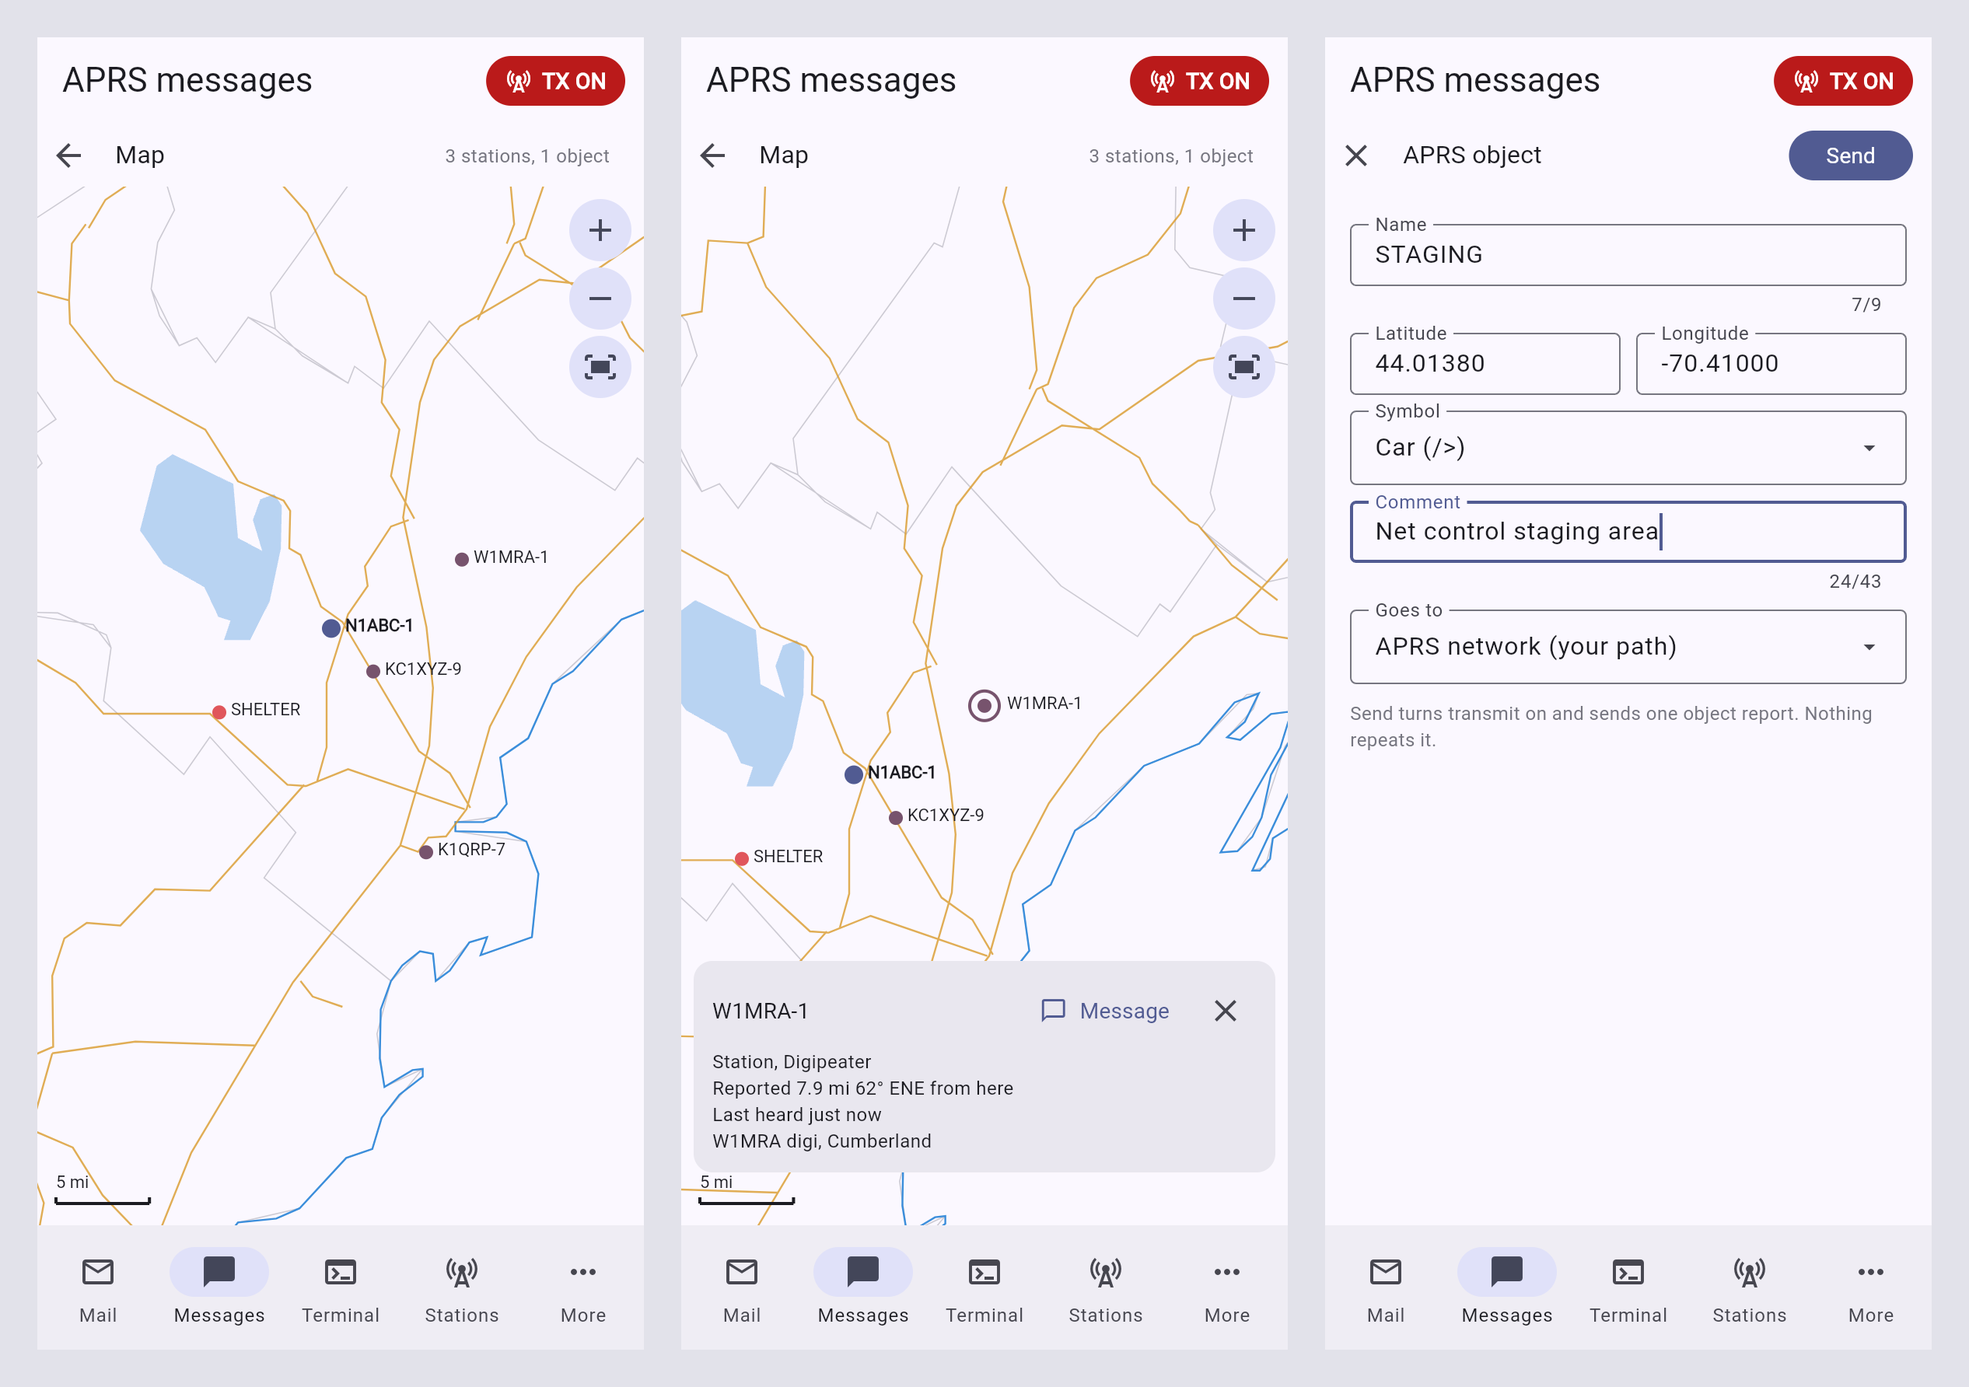
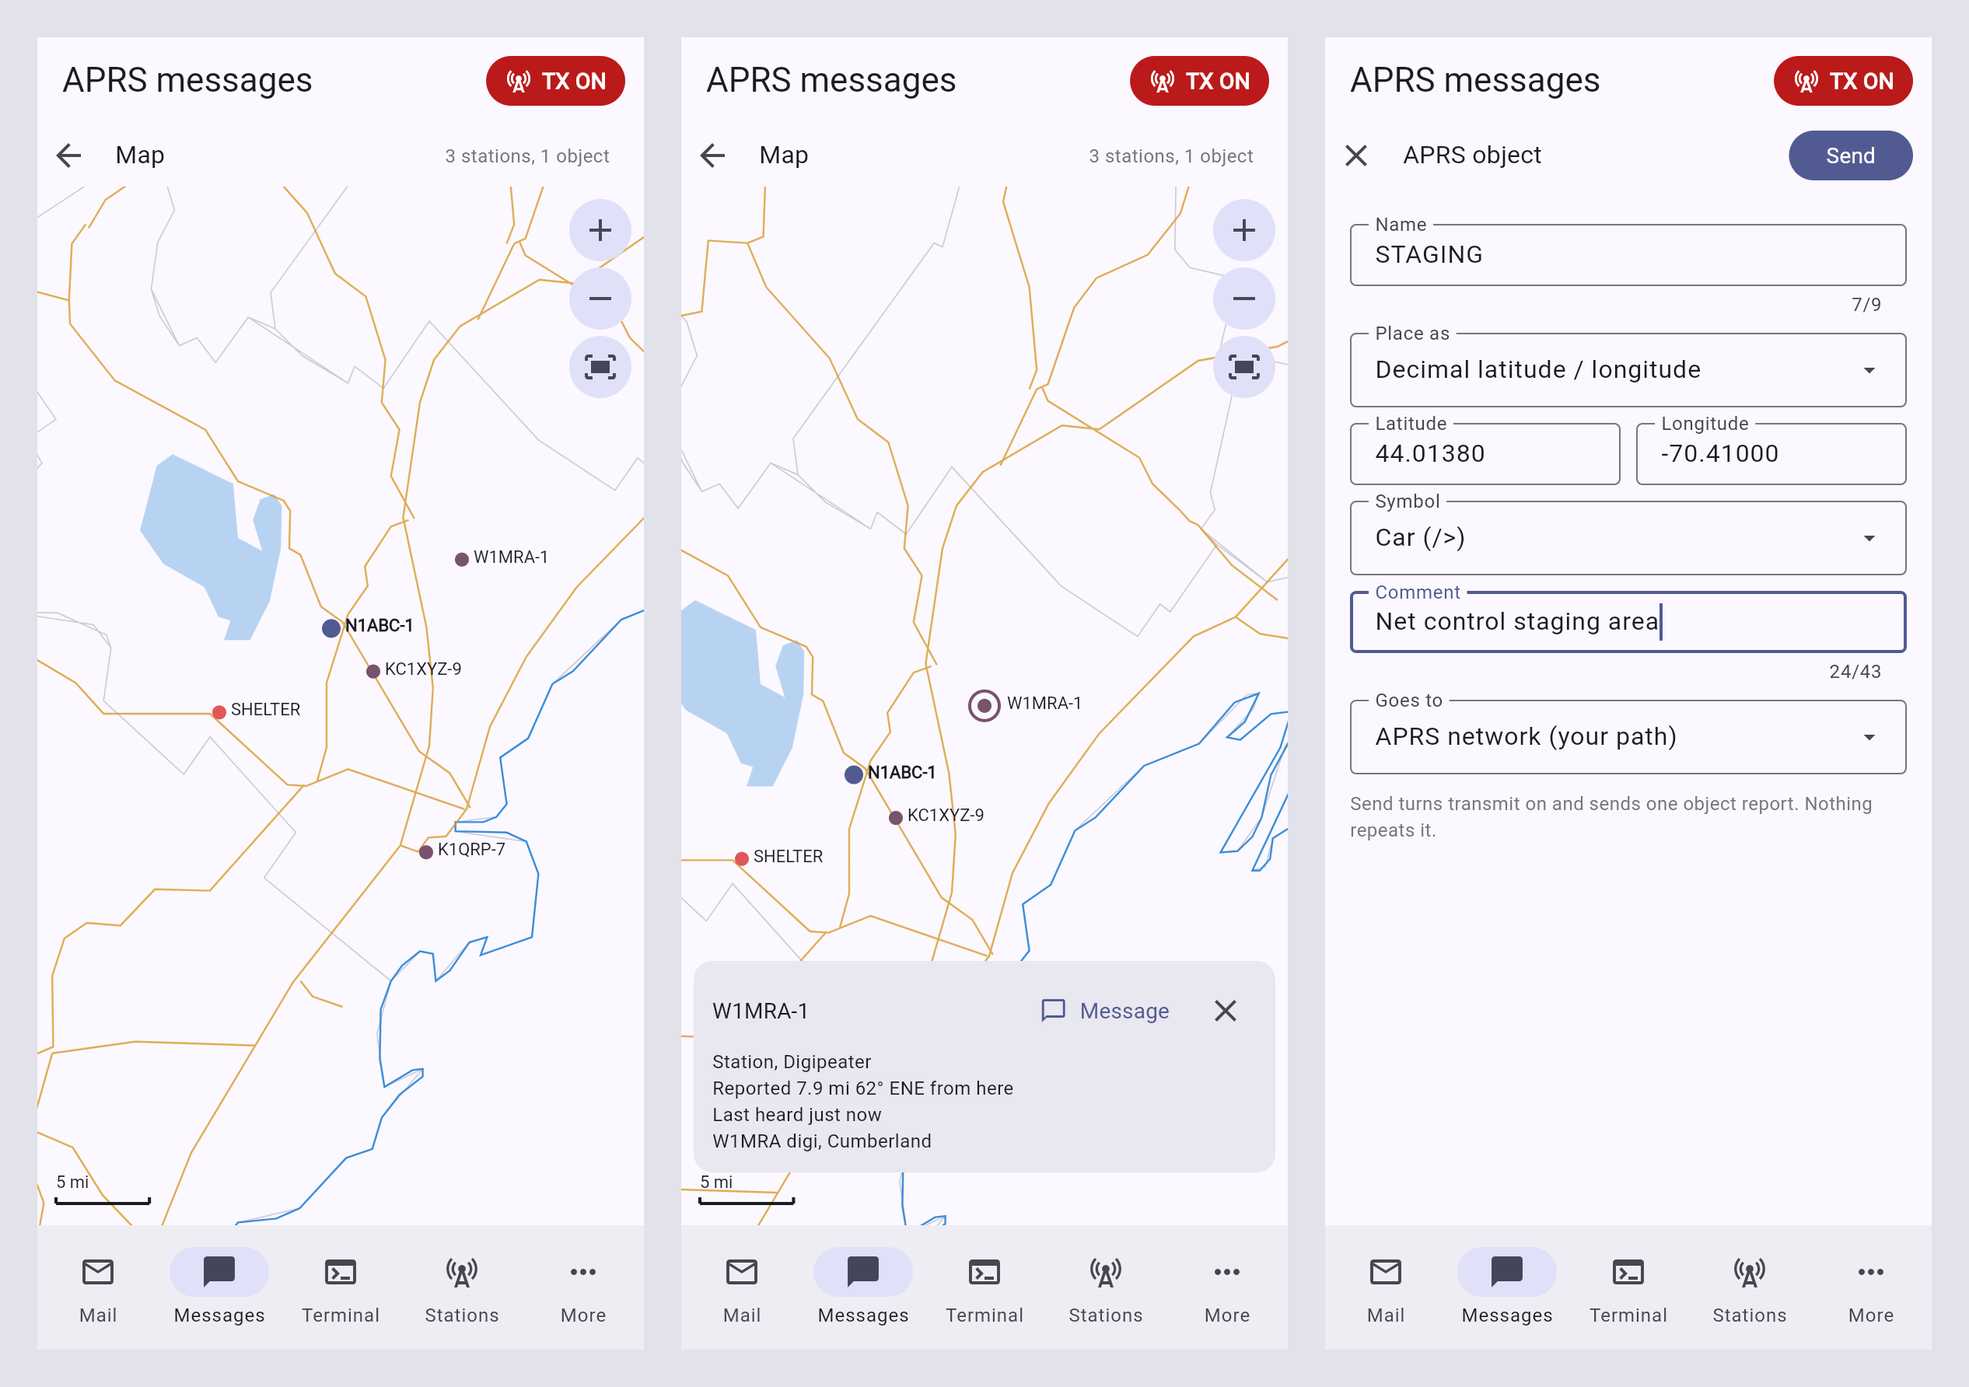
Web/phone: an object's place as grid square, MGRS or UTM, converted by the station

Changed region(s): [[0.6864, 0.2158, 0.9672, 0.6166]]

diff --git a/kissterm/client/ui/aprs_object.py b/kissterm/client/ui/aprs_object.py
@@ -22,6 +22,11 @@ import flet as ft
 from . import sheets
 
 
+#: An example of each way to give a place, as the terminal's dialog shows.
+PLACE_HINTS = {"grid": "FN31pr", "mgrs": "18T WL 85664 11348", "utm": "18 N 691875 4576931"}
+PLACE_LABELS = {"grid": "Grid square", "mgrs": "MGRS", "utm": "UTM"}
+
+
 class ObjectForm:
     """One object being written, as a page of `MessagesView`."""
 
@@ -39,6 +44,15 @@ class ObjectForm:
         self.longitude = ft.TextField(label="Longitude",
                                       value=f"{start.get('longitude', 0):.5f}", dense=True,
                                       expand=True, keyboard_type=ft.KeyboardType.NUMBER)
+        #: How the place is given (the terminal's coordinate format): the
+        #: station converts a grid square, MGRS or UTM (`Aprs.place_from`).
+        self.place_format = ft.Dropdown(
+            label="Place as", value="decimal", dense=True, expand=True,
+            on_select=self._format_picked,
+            options=[ft.DropdownOption(key=key, text=label)
+                     for key, label in start.get("formats") or [["decimal", "Decimal"]]])
+        self.reference = ft.TextField(label="Grid square", dense=True, visible=False,
+                                      hint_text=PLACE_HINTS["grid"])
         self.symbol = ft.Dropdown(
             label="Symbol", value=start.get("symbol") or None, dense=True, expand=True,
             enable_filter=True, editable=True, menu_height=320,
@@ -67,7 +81,9 @@ class ObjectForm:
                                  # Room for the first field's floating label.
                                  ft.Container(height=6),
                                  self.name,
+                                 ft.Row(controls=[self.place_format]),
                                  ft.Row(controls=[self.latitude, self.longitude]),
+                                 self.reference,
                                  ft.Row(controls=[self.symbol]),
                                  self.comment,
                                  ft.Row(controls=[self.scope]),
@@ -75,6 +91,15 @@ class ObjectForm:
                                          "Nothing repeats it.", size=12,
                                          color=ft.Colors.OUTLINE),
                                  self.problems]))])
+
+    async def _format_picked(self, _e) -> None:
+        mode = self.place_format.value or "decimal"
+        self.latitude.visible = self.longitude.visible = mode == "decimal"
+        self.reference.visible = mode != "decimal"
+        if mode != "decimal":
+            self.reference.label = PLACE_LABELS[mode]
+            self.reference.hint_text = PLACE_HINTS[mode]
+        self.app.page.update()
 
     def values(self) -> dict:
         return {"name": (self.name.value or "").strip().upper(), "alive": True,
@@ -84,13 +109,19 @@ class ObjectForm:
 
     async def send(self, _e) -> None:
         values = self.values()
-        try:
-            values["latitude"] = float(str(values["latitude"]).strip())
-            values["longitude"] = float(str(values["longitude"]).strip())
-        except ValueError:
-            self.problems.value = "Latitude and longitude must be decimal numbers."
-            self.app.page.update()
-            return
+        mode = self.place_format.value or "decimal"
+        if mode == "decimal":
+            try:
+                values["latitude"] = float(str(values["latitude"]).strip())
+                values["longitude"] = float(str(values["longitude"]).strip())
+            except ValueError:
+                self.problems.value = "Latitude and longitude must be decimal numbers."
+                self.app.page.update()
+                return
+        else:
+            # The station converts it, and says what to enter if it cannot.
+            values.update(format=mode, reference=self.reference.value or "")
+            del values["latitude"], values["longitude"]
         name = values["name"] or "this object"
 
         async def go() -> None:

diff --git a/kissterm/ui/dialogs.py b/kissterm/ui/dialogs.py
@@ -36,7 +36,7 @@ from ..aprs_contacts import (
 from ..ax25 import parse_path
 #: Defined in the core (`kissterm/core/connect.py`), re-exported for the
 #: screens and callers that build one.
-from ..core.aprs import AprsObjectRequest  # noqa: F401 - defined by the core
+from ..core.aprs import PLACE_EXAMPLES, AprsObjectRequest, place_from  # noqa: F401 - defined by the core
 from ..core.connect import ConnectRequest  # noqa: F401
 from ..core.questions import (  # noqa: F401 - the answer types, defined by the core
     SETUP_GO,
@@ -45,7 +45,6 @@ from ..core.questions import (  # noqa: F401 - the answer types, defined by the 
     GatewayChoice,
     InternetLogin,
 )
-from ..locator import LocatorError, from_grid, from_mgrs, from_utm
 from .button_row import ButtonRow
 from .symbol_picker import SymbolPicker
 from .wraplog import WrapLog
@@ -415,17 +414,11 @@ class AprsObjectScreen(ModalScreen[AprsObjectRequest | None]):
                 latitude = float(self.query_one("#aprs-object-latitude", Input).value.strip())
                 longitude = float(self.query_one("#aprs-object-longitude", Input).value.strip())
             else:
-                reference = self.query_one("#aprs-object-reference", Input).value
-                converter = {"grid": from_grid, "mgrs": from_mgrs, "utm": from_utm}[mode]
-                latitude, longitude = converter(reference)
-        except (KeyError, LocatorError, ValueError):
-            examples = {
-                "decimal": "Latitude and longitude must be decimal numbers.",
-                "grid": "Enter a 4-, 6-, or 8-character grid square, e.g. FN31pr.",
-                "mgrs": "Enter WGS-84 MGRS, e.g. 18T WL 85664 11348.",
-                "utm": "Enter WGS-84 UTM as zone hemisphere easting northing, e.g. 18 N 691875 4576931.",
-            }
-            self.notify(examples.get(mode, "Enter a valid coordinate."), severity="warning")
+                latitude, longitude = place_from(
+                    mode, self.query_one("#aprs-object-reference", Input).value)
+        except ValueError as exc:
+            self.notify(str(exc) if mode != "decimal" else PLACE_EXAMPLES["decimal"],
+                        severity="warning")
             return
         name = self.query_one("#aprs-object-name", Input).value
         symbol = self.query_one("#aprs-object-symbol-picker", SymbolPicker).value

diff --git a/kissterm/core/aprs.py b/kissterm/core/aprs.py
@@ -56,7 +56,7 @@ from ..config import AprsConfig, BeaconConfig
 from ..geo import placemarks as marks
 from ..geo.project import describe
 from ..gps import GpsReader
-from ..locator import find_grid_in_text
+from ..locator import LocatorError, find_grid_in_text, from_grid, from_mgrs, from_utm
 from ..monitor import aprs_message_matches, sanitize
 from .events import (
     Alert,
@@ -98,6 +98,31 @@ class AprsObjectRequest:
     symbol: str
     comment: str
     scope: str = "network"
+
+
+#: How an object's place can be given. APRS has only latitude and longitude,
+#: so the others are converted (WGS-84 only) before anything is sent.
+PLACE_FORMATS = (("decimal", "Decimal latitude / longitude"), ("grid", "Maidenhead grid square"),
+                 ("mgrs", "MGRS"), ("utm", "WGS-84 UTM"))
+PLACE_EXAMPLES = {
+    "decimal": "Latitude and longitude must be decimal numbers.",
+    "grid": "Enter a 4-, 6-, or 8-character grid square, e.g. FN31pr.",
+    "mgrs": "Enter WGS-84 MGRS, e.g. 18T WL 85664 11348.",
+    "utm": "Enter WGS-84 UTM as zone hemisphere easting northing, e.g. 18 N 691875 4576931.",
+}
+
+
+def place_from(mode: str, reference: str) -> tuple[float, float]:
+    """`(latitude, longitude)` for a grid square, MGRS or UTM `reference`;
+    ValueError, saying what to enter, when it is not one. The one converter
+    both front ends use (the terminal's Send object and the client's)."""
+    converter = {"grid": from_grid, "mgrs": from_mgrs, "utm": from_utm}.get(mode)
+    if converter is None:
+        raise ValueError(PLACE_EXAMPLES["decimal"])
+    try:
+        return converter(reference)
+    except (LocatorError, ValueError) as exc:
+        raise ValueError(PLACE_EXAMPLES[mode]) from exc
 
 
 def object_problems(request: AprsObjectRequest) -> list[str]:
@@ -694,6 +719,7 @@ class Aprs:
             "symbol": (mine.symbol if mine else "") or self.config.aprs.symbol,
             "comment": mine.comment if mine else "",
             "scopes": [list(scope) for scope in OBJECT_SCOPES],
+            "formats": [list(f) for f in PLACE_FORMATS],
             "symbols": [[symbol.key, symbol.description] for symbol in aprs_symbols.SYMBOLS
                         if symbol.description],
         }

diff --git a/kissterm/serve/server.py b/kissterm/serve/server.py
@@ -417,13 +417,22 @@ class RemoteServer:
             None if latitude is None else float(latitude),
             None if longitude is None else float(longitude), str(name or ""))
 
-    async def cmd_aprs_object(self, name: str, alive: bool, latitude: float, longitude: float,
-                              symbol: str, comment: str = "", scope: str = "network") -> dict:
+    async def cmd_aprs_object(self, name: str, alive: bool, latitude: float | None = None,
+                              longitude: float | None = None, symbol: str = "/.",
+                              comment: str = "", scope: str = "network",
+                              format: str = "decimal", reference: str = "") -> dict:
         """Send one object report, as the terminal's Send object does: checked
         first (nothing sent with a problem), then the gate armed by this
-        operator-named request (`Aprs.send_object_now`)."""
-        from ..core.aprs import AprsObjectRequest, object_problems
+        operator-named request (`Aprs.send_object_now`). The place is the
+        decimal `latitude`/`longitude`, or for `format` grid, mgrs or utm the
+        `reference`, converted here (`place_from`)."""
+        from ..core.aprs import AprsObjectRequest, object_problems, place_from
 
+        if format != "decimal":
+            try:
+                latitude, longitude = place_from(str(format), str(reference))
+            except ValueError as exc:
+                return {"problems": [str(exc)], "sent": False}
         try:
             request = AprsObjectRequest(str(name), bool(alive), float(latitude),
                                         float(longitude), str(symbol), str(comment or ""),

diff --git a/tests/unit/test_client_ui.py b/tests/unit/test_client_ui.py
@@ -1276,3 +1276,23 @@ async def test_a_saved_message_is_saved_and_forgotten_through_the_station():
     assert ("aprs_template_save", {"name": "Hi", "text": "QRV", "gateway": "winlink"}) in app.commands
     await shown._forgetter(TEMPLATES["saved"][0])(None)
     assert app.commands[-2][0] == "aprs_template_forget"
+
+
+@pytest.mark.asyncio
+async def test_an_object_placed_by_grid_square_sends_the_reference_for_the_station_to_convert():
+    from kissterm.client.ui.aprs_object import ObjectForm
+    from kissterm.client.ui.messages import MessagesView
+
+    sent = []
+    app = MailApp({"aprs_object": lambda **a: sent.append(a) or {"problems": [], "sent": True}})
+    messages = MessagesView(app)
+    form = ObjectForm(messages, dict(OBJECT_START, formats=[["decimal", "Decimal"], ["grid", "Grid"]]))
+    form.name.value = "drill"
+    form.place_format.value = "grid"
+    await form._format_picked(None)
+    assert form.reference.visible and not form.latitude.visible
+    form.reference.value = "FN43"
+    await form.send(None)
+    await _button(app.page.dialogs[-1], "Send").on_click(None)
+    assert sent[0]["format"] == "grid" and sent[0]["reference"] == "FN43"
+    assert "latitude" not in sent[0] and sent[0]["name"] == "DRILL"

diff --git a/tests/unit/test_core_aprs.py b/tests/unit/test_core_aprs.py
@@ -158,3 +158,18 @@ async def test_saved_messages_are_scoped_validated_replaced_and_forgotten():
     assert not core.aprs.template_forget("List", "L", "winlink")
     assert len(core.config.aprs_templates) == 1
     station.close()
+
+
+def test_an_objects_place_can_be_a_grid_square_mgrs_or_utm():
+    from kissterm.core.aprs import place_from
+    from kissterm.locator import from_utm
+
+    lat, lon = place_from("grid", "FN31pr")
+    assert 41 < lat < 42 and -73 < lon < -72
+    assert place_from("mgrs", "18T WL 85664 11348") == pytest.approx((40.7486, -73.9853), abs=0.001)
+    assert place_from("utm", "18 N 691875 4576931") == from_utm("18 N 691875 4576931")
+    for mode in ("grid", "mgrs", "utm"):
+        with pytest.raises(ValueError, match="Enter"):
+            place_from(mode, "nonsense")
+    with pytest.raises(ValueError):
+        place_from("decimal", "43 -70")

diff --git a/kissterm/__init__.py b/kissterm/__init__.py
@@ -14,7 +14,7 @@ import __version__` fails with a confusing "unknown location" ImportError --
 this has already happened once.
 """
 
-__version__ = "0.1.472"
+__version__ = "0.1.473"
 
 __all__ = ["__version__"]
 

diff --git a/docs/PROTOCOL.md b/docs/PROTOCOL.md
@@ -152,7 +152,7 @@ lighter path around a rule the terminal follows.
 | `aprs_position` | `Aprs.send_position_now` | yes |
 | `aprs_conversations` / `aprs_thread` `{callsign}` | `Aprs.conversations` | no |
 | `aprs_object_start` `{latitude, longitude, name}` | `Aprs.object_start`: a new object's form, at here or the place given (a long press on the map), with `symbol`, `comment`, `scopes` and `symbols` (key, description); `name` one of this station's objects fills in its symbol and comment (Move, Kill) | no |
-| `aprs_object` `{name, alive, latitude, longitude, symbol, comment, scope}` | `Aprs.send_object_now`, after `object_problems`: returns `problems` (nothing sent) and `sent`; the object is on this station's map at once, `mine` true. `alive` false kills it | yes |
+| `aprs_object` `{name, alive, latitude, longitude, symbol, comment, scope}`, or `format` (`grid`, `mgrs`, `utm`) and `reference` in place of the coordinates (`aprs_object_start` lists `formats`) | `Aprs.send_object_now`, after `object_problems`: returns `problems` (nothing sent) and `sent`; the object is on this station's map at once, `mine` true. `alive` false kills it | yes |
 | `aprs_templates` `{callsign}` / `aprs_template_save` `{name, text, gateway, old}` / `aprs_template_forget` `{name, text, gateway}` | `Aprs.templates` (the shipped gateway service for that callsign, or the contact's own, with `commands` (`name`, `summary`, `text`, `confidence`), `note`, `source`, `checked`; and the saved messages for it) / `template_save` (returns `problems`; `old` replaces that saved message, matched on its content) / `template_forget`. A client puts a chosen `text` in its message box; nothing here sends | no |
 | `beacon_now` | `Aprs.beacon_now` | no (refused while closed) |
 | `send_receive` `{folder, internet}` | `Mail.send_receive` | through its connect |

diff --git a/docs/CHANGELOG.md b/docs/CHANGELOG.md
@@ -5,6 +5,20 @@ long, with a **Files:** line. Entries from before 2026-09-22 (the P0
 stabilization rewrite) are in `docs/CHANGELOG-archive.md`; read it only when
 you need the history of a specific change.
 
+## [2026-10-07] — An object's place as a grid square, MGRS or UTM on the web and phone
+
+### Improvements
+
+- **The object form has "Place as"**, as the terminal's: decimal degrees,
+  a Maidenhead grid square, MGRS or WGS-84 UTM. The station converts it
+  (`core.aprs.place_from`, now the one converter for both front ends) and
+  answers a bad reference with what to enter, sending nothing.
+
+**Files:** `kissterm/core/aprs.py`, `kissterm/serve/server.py`,
+`kissterm/ui/dialogs.py`, `kissterm/client/ui/aprs_object.py`,
+`assets/screenshot-phone-map.png`, `docs/PROTOCOL.md`, `docs/GUIDE.md`,
+`docs/ROADMAP.md`, `tests/unit/test_core_aprs.py`, `tests/unit/test_client_ui.py`
+
 ## [2026-10-07] — APRS templates in the web and phone client
 
 ### New Features

diff --git a/docs/GUIDE.md b/docs/GUIDE.md
@@ -756,8 +756,9 @@ own client.
     **Message** to open a conversation with a station. It refreshes as
     stations are heard. A **long press** on the map opens an object
     report for that spot, and **Object** beside Map one for where you
-    are (APRS > Object in the terminal): a name, the place, a symbol, a
-    comment and where it goes, sent by Send after asking. Your objects
+    are (APRS > Object in the terminal): a name, the place (decimal
+    degrees, a grid square, MGRS or WGS-84 UTM, converted by the
+    station), a symbol, a comment and where it goes, sent by Send after asking. Your objects
     show at once; tap one for **Move** (then a long press where it goes)
     and **Kill** (after asking).
   - **Terminal** (once called Sessions) is the terminal: one page per session, swiped or tapped

diff --git a/docs/ROADMAP.md b/docs/ROADMAP.md
@@ -471,9 +471,7 @@ back end, so a protocol fix or a new transport lands everywhere at once.
 - [ ] **Parity: what the terminal does that the remote client cannot
   yet** (AGENTS.md section 7, operator 2026-10-06). These need protocol
   commands first: writing Winlink forms; sending a file (YAPP);
-  the node's command help and suggestions; an object's
-  place as a grid square, MGRS or UTM (the phone takes a long press or
-  decimal degrees); RMS gateways; opening a file
+  the node's command help and suggestions; RMS gateways; opening a file
   inside a zip, or HTML and Markdown formatted, from Files (the phone
   shows the reader's preview only).
 - Decided 2026-10-07: the web client in a browser (Chrome) is the
